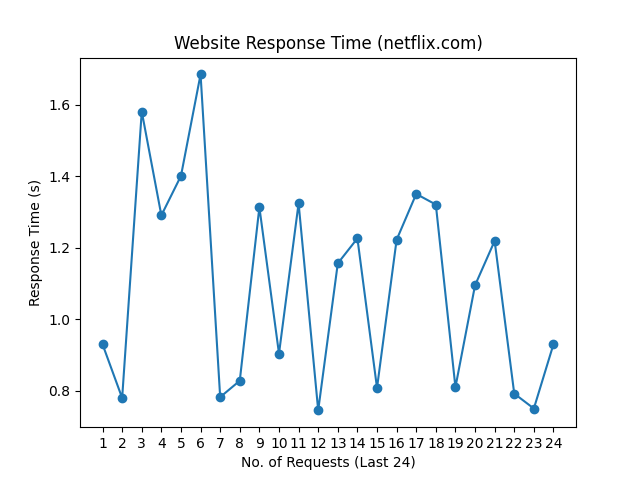
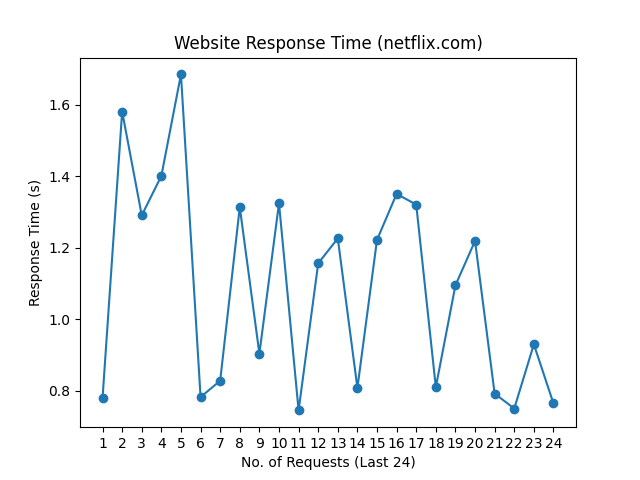
update README.md, history and graph

Changed region(s): [[0.1562, 0.125, 0.875, 0.875]]

diff --git a/README.md b/README.md
@@ -1,10 +1,10 @@
 # Web Monitoring
 
-Last Checked: 01/12/2024 08:26
+Last Checked: 02/12/2024 08:22
 
 | Website | Response Time (s) | Status | Avg Uptime (%) |
 |---------|-------------------|--------|----------------|
 | www.thiswebsiteisdown.net | 0 <br> <img src="graph/thiswebsiteisdown.net.png" alt="Graph" width="200" height="200">  | ❌ Down | 0.00 |
-| www.netflix.com | 0.930373 <br> <img src="graph/netflix.com.png" alt="Graph" width="200" height="200">  | ✅ Up | 100.00 |
-| www.google.com | 0.083356 <br> <img src="graph/google.com.png" alt="Graph" width="200" height="200">  | ✅ Up | 100.00 |
-| www.facebook.com | 0.299588 <br> <img src="graph/facebook.com.png" alt="Graph" width="200" height="200">  | ✅ Up | 100.00 |
+| www.netflix.com | 0.765049 <br> <img src="graph/netflix.com.png" alt="Graph" width="200" height="200">  | ✅ Up | 100.00 |
+| www.google.com | 0.079305 <br> <img src="graph/google.com.png" alt="Graph" width="200" height="200">  | ✅ Up | 100.00 |
+| www.facebook.com | 0.318927 <br> <img src="graph/facebook.com.png" alt="Graph" width="200" height="200">  | ✅ Up | 100.00 |
